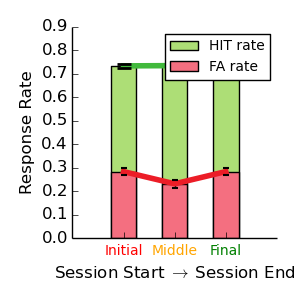
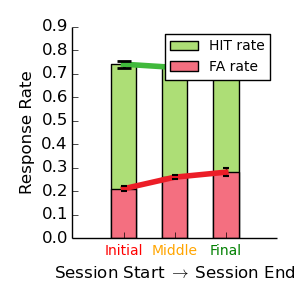
Last version with PNG sent to Aleks

diff --git a/motivBCS2015/main.py b/motivBCS2015/main.py
@@ -293,6 +293,7 @@ def figs(folder="", Qinit=1, nrep=15):
 
     # Generate the date using Alex data
     spe_d, sen_d = (np.array([[0.67715263,  0.49399997,  0.08506709],
+                              [ 0.24270313,  0.02321038,  0.02952344],
                               [0.46347041,  0.13583542,  0.01],
                               [0.45477764,  0.1491837,  0.0196239],
                               [0.53858297,  0.01934524,  0.03432847],
@@ -307,6 +308,7 @@ def figs(folder="", Qinit=1, nrep=15):
                               [0.59259021,  0.52808894,  0.1734353],
                               [0.56883472,  0.08478361,  0.06293826]]),
                     np.array([[0.9002687,  0.87589243,  0.42867166],
+                              [ 0.51334301,  0.26184022,  0.03030197],
                               [0.66978751,  0.4384674,  0.32985439],
                               [0.5532464,  0.36577512,  0.24859649],
                               [0.76743038,  0.6130325,  0.27673233],
